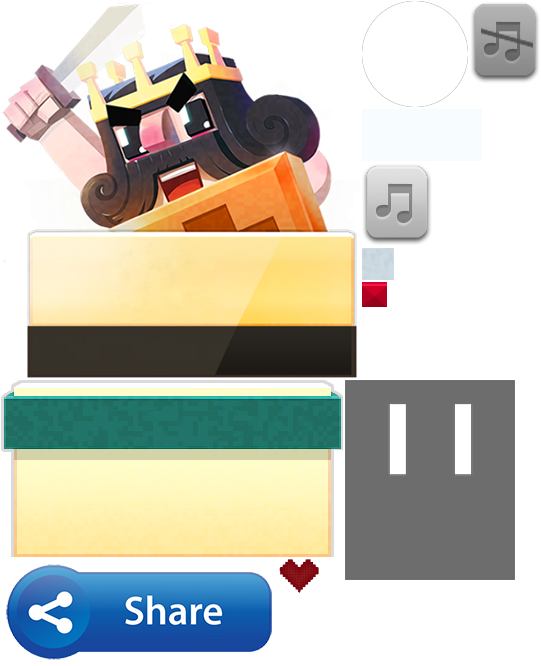
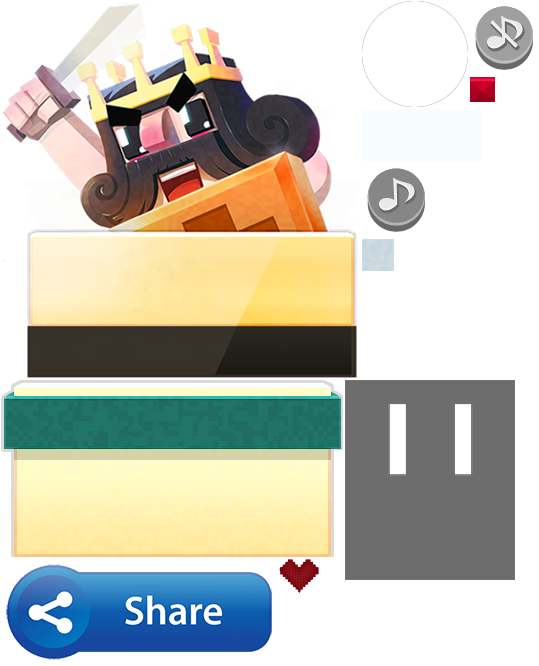
fixed music bug

diff --git a/src/game/IndexScene.js b/src/game/IndexScene.js
@@ -19,6 +19,10 @@ var IndexScene = cc.Scene.extend({
      * @type ccui.Button
      */
     playBtn: null,
+    /**
+     * @type ccui.Button
+     */
+    musicBtn: null,
     ctor: function () {
         this._super();
 
@@ -37,6 +41,7 @@ var IndexScene = cc.Scene.extend({
         this.girl = seekChildByName(this.mainNode, "girl");
         this.light = seekChildByName(this.mainNode, "light");
         this.playBtn = seekChildByName(this.mainNode, "playBtn");
+        this.musicBtn = seekChildByName(this.mainNode, "musicBtn");
 
         shake.randomShakeLoop(this.boy);
         shake.randomShakeLoop(this.girl);
@@ -56,9 +61,17 @@ var IndexScene = cc.Scene.extend({
         this.addChild(title, 1);
 
         //event
+        var that = this;
         this.playBtn.addClickEventListener(function () {
             cc.director.runScene(new cc.TransitionFade(0.35, new ChapterScene(), hex2Color(0xd8f5fd)));
         });
+
+        this.musicBtn.addClickEventListener(function () {
+            SoundsManager.instance.toggle();
+            that.musicShow();
+        });
+        this.musicShow();
+        SoundsManager.instance.playMusic();
 
         if (cc.sys.isNative) {
             cc.eventManager.addListener({
@@ -66,6 +79,14 @@ var IndexScene = cc.Scene.extend({
                 onKeyReleased: this.onKeyClicked.bind(this)
             }, this);
         }
+    },
+
+    musicShow: function () {
+       var url = "ui/music_open.png";
+        if(!SoundsManager.instance.isAudio){
+            url = "ui/music_close.png";
+        }
+        this.musicBtn.loadTextures(url,url,url,ccui.Widget.PLIST_TEXTURE);
     },
 
     onKeyClicked: function (keyCode, event) {

diff --git a/src/game/chapter/ChapterScene.js b/src/game/chapter/ChapterScene.js
@@ -87,23 +87,6 @@ var ChapterScene = cc.Scene.extend({
                 onKeyReleased: this.onKeyClicked.bind(this)
             }, this);
         }
-
-        //music
-        var isAudio = SoundsManager.instance.isAudio;
-        this.musicSp = new cc.Sprite("#ui/music_" + (isAudio ? "open" : "close") + ".png");
-        var that = this;
-        var item = new cc.MenuItemSprite(this.musicSp);
-        item.setCallback(function () {
-            SoundsManager.instance.toggle();
-            isAudio = !isAudio;
-            var frame = new cc.SpriteFrame("#ui/music_" + (isAudio ? "open" : "close") + ".png", cc.rect(0, 0, 70, 83));
-            that.musicSp.setSpriteFrame(frame);
-        }, this);
-
-        var menu = cc.Menu.create(item);
-        menu.setPosition(cc.p(45, 50));
-        this.addChild(menu);
-
     },
     onKeyClicked: function (keyCode, event) {
         if (keyCode == cc.KEY.back) {
@@ -162,18 +145,21 @@ var ChapterScene = cc.Scene.extend({
             }
         }
     },
+
     nextPage: function () {
         if (this.pageIndex < 3) {
             this.pageIndex++;
         }
         this.scroll.setContentOffsetInDuration(cc.p(-400 * this.pageIndex, 0), 0.25);
     },
+
     prevPage: function () {
         if (this.pageIndex > 0) {
             this.pageIndex--;
         }
         this.scroll.setContentOffsetInDuration(cc.p(-400 * this.pageIndex, 0), 0.25);
     },
+
     _checkClick: function (pos) {
         for (var i = this.pageIndex * 12; i < Math.min(this.itemArr.length, (this.pageIndex + 1) * 12); i++) {
             var item = this.itemArr[i];

diff --git a/src/common/SoundsManager.js b/src/common/SoundsManager.js
@@ -11,17 +11,13 @@ var SoundsManager = cc.Class.extend({
     /**
      * 当前背景音乐的路径
      */
-    bgSoundPath: "",
+    bgSoundPath: "res/sounds/bgsound.mp3",
     ctor: function () {
         this.load();
     }
 });
 
 SoundsManager.prototype.load = function () {
-    if (cc.sys.os.toLowerCase() == "windows") {
-        this.isAudio = false;
-        return;
-    }
     var dataStr = cc.sys.localStorage.getItem("sound");
     if (!dataStr)return;
     var sound = JSON.parse(dataStr);
@@ -60,7 +56,7 @@ SoundsManager.prototype.playMusic = function (path) {
     if (this.isAudio) {
         if (!cc.audioEngine.isMusicPlaying()) {
             this.bgSoundPath = path;
-            //cc.audioEngine.playMusic(path, true);
+            cc.audioEngine.playMusic(path, true);
             cc.audioEngine.setMusicVolume(0.55);
         }
     }
@@ -71,14 +67,14 @@ SoundsManager.prototype.playMusic = function (path) {
  * @param loop 默认false
  */
 SoundsManager.prototype.playEffect = function (name, loop, vol) {
-    var path = "res/sounds"+name+".mp3";
+    var path = "res/sounds/" + name + ".mp3";
     if (arguments.length < 3) {
         vol = 1;
     }
     if (this.isAudio) {
         loop = arguments[1] || false;
         cc.audioEngine.stopAllEffects();
-        //cc.audioEngine.playEffect(path, loop);
+        cc.audioEngine.playEffect(path, loop);
         cc.audioEngine.setEffectsVolume(vol);
     }
 }

diff --git a/src/game/layer/PauseLayer.js b/src/game/layer/PauseLayer.js
@@ -6,6 +6,10 @@ var PauseLayer = cc.Layer.extend({
      * @type cc.LabelTTF
      */
     timeTF: null,
+    /**
+     * @type ccui.Button
+     */
+    musicBtn:null,
     ctor: function (control) {
         this._super();
 
@@ -41,11 +45,31 @@ var PauseLayer = cc.Layer.extend({
         this.addChild(timeTF);
         this.timeTF = timeTF;
 
+        //music btn
+        this.musicBtn = new ccui.Button();
+        this.musicBtn.x = 50;
+        this.musicBtn.y = 50;
+        this.addChild(this.musicBtn);
+        var that = this;
+        this.musicBtn.addClickEventListener(function () {
+            SoundsManager.instance.toggle();
+            that.musicShow();
+        });
+        this.musicShow();
+
         //event
         cc.eventManager.addListener({
             event: cc.EventListener.TOUCH_ONE_BY_ONE,
             onTouchBegan: this.onTouchBeganHandler.bind(this)
         }, this);
+    },
+
+    musicShow: function () {
+        var url = "ui/music_open.png";
+        if(!SoundsManager.instance.isAudio){
+            url = "ui/music_close.png";
+        }
+        this.musicBtn.loadTextures(url,url,url,ccui.Widget.PLIST_TEXTURE);
     },
 
     /**

diff --git a/main.js b/main.js
@@ -88,7 +88,7 @@ cc.game.onStart = function () {
 
     //load resources
     var isNoShowLogo = !cc.sys.isMobile && !cc.sys.isNative;
-    isNoShowLogo = false;
+    //isNoShowLogo = false;
     if (isNoShowLogo) {
         cc.LoaderScene.preload(g_resources, function () {
             gameStart();
@@ -109,6 +109,7 @@ cc.game.onStart = function () {
 
         Lang.init();
         LevelManager.instance.initConfig();
+        SoundsManager.instance.load();
 
         //获取数据
         Net.loadGameStep();
